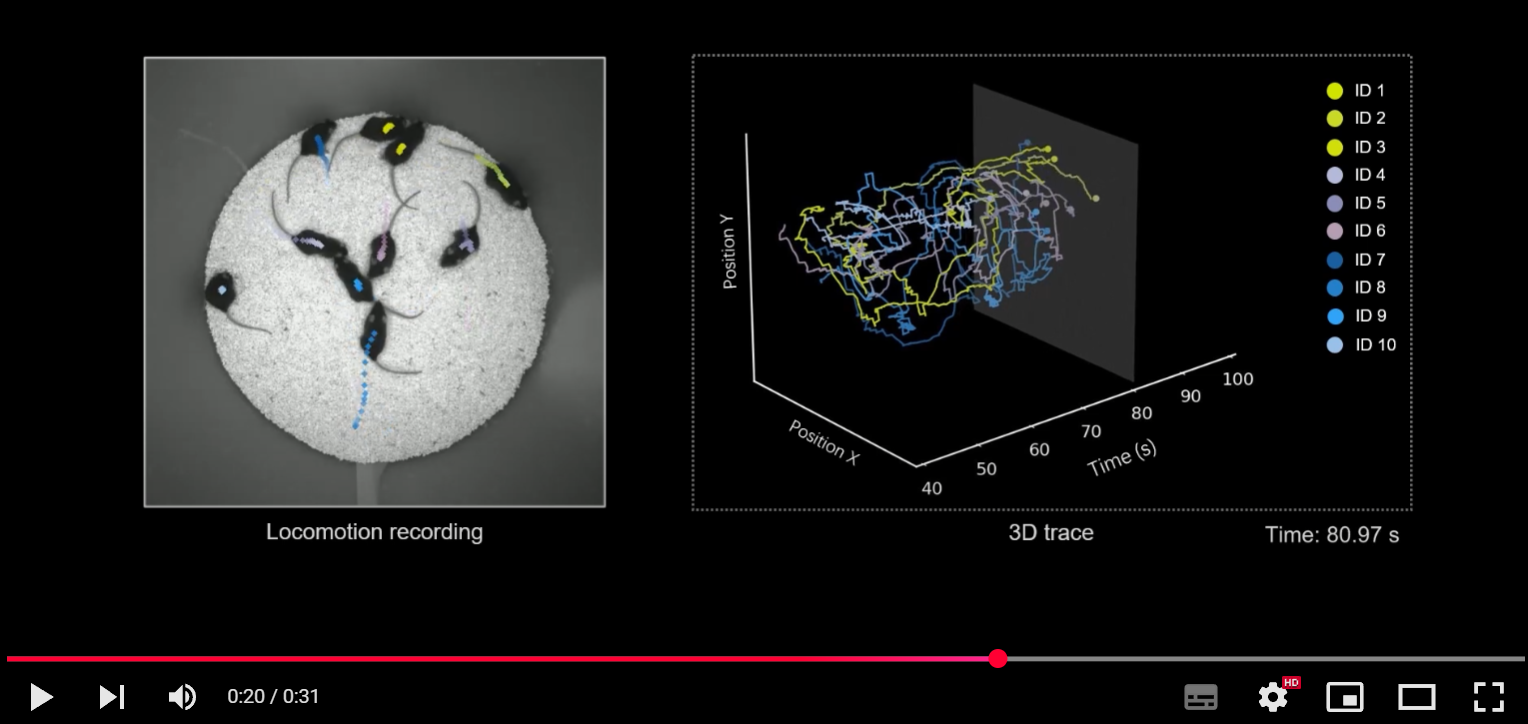
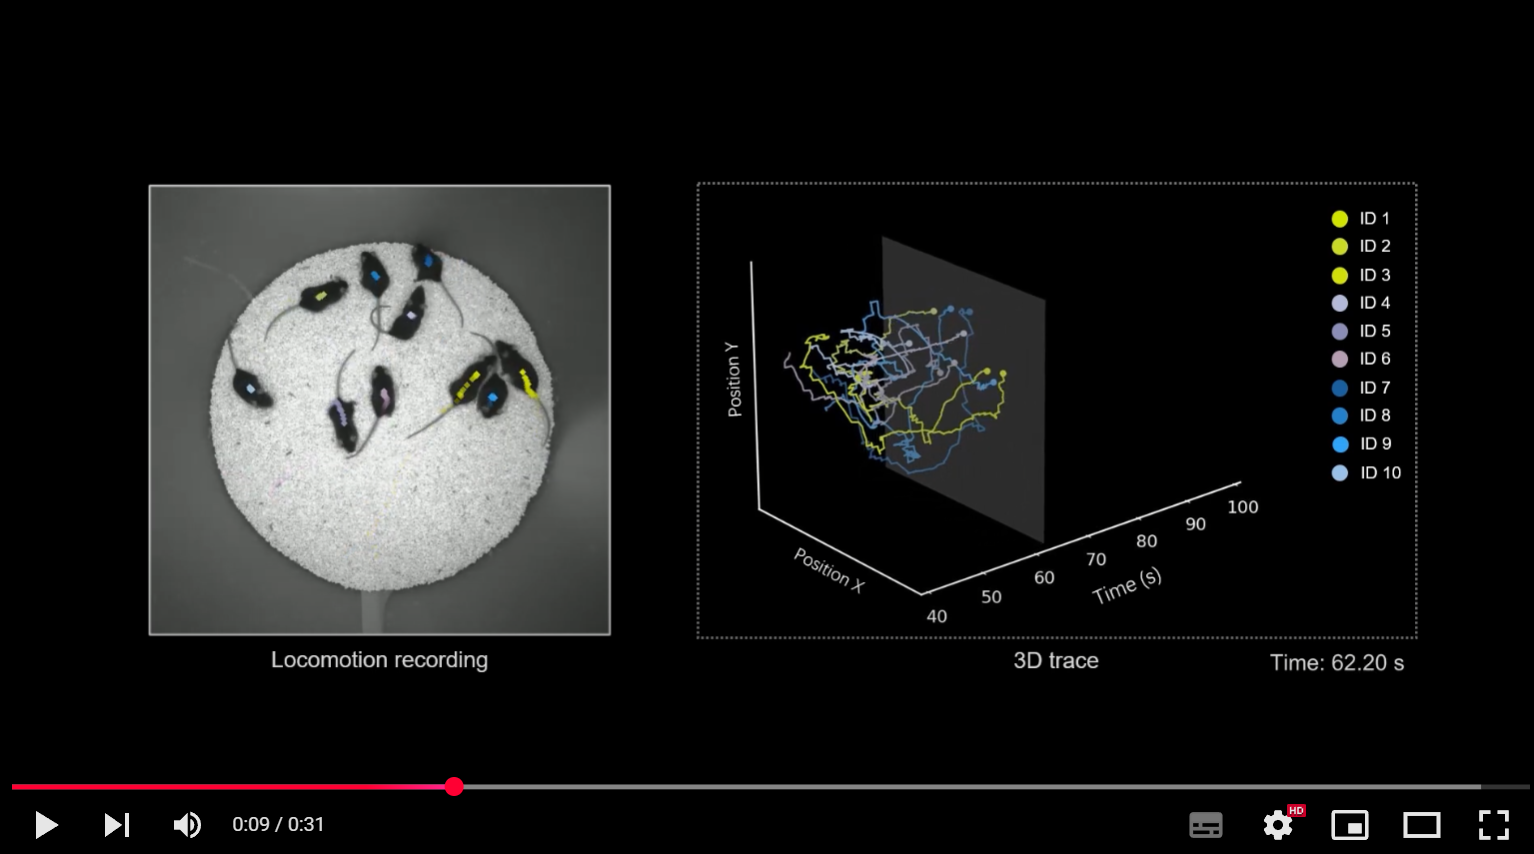
Add files via upload

diff --git a/README.md b/README.md
@@ -16,13 +16,12 @@
 
 ## Overview
 
-**Among the challenges of fluorescence microscopy, poor imaging signal-to-noise ratio (SNR) caused by limited photon budget lingeringly stands in the central position.** Fluorescence microscopy is inherently sensitive to detection noise because the photon flux in fluorescence imaging is far lower than that in photography. For almost all fluorescence imaging technologies, the inherent [**shot-noise limit**](https://cabooster.github.io/DeepCAD-RT/About/) determines the upper bound of imaging SNR and restricts the imaging resolution, speed, and sensitivity. To capture enough fluorescence photons for satisfactory SNR, researchers have to sacrifice imaging resolution, speed, and even sample health.  
+Animal behavior is closely related to their internal state and external environment. Quantifying animal behavior is a fundamental step in ecology, neuroscience, psychology, and various other fields. However, there exist enduring challenges impeding multi-animal tracking advancing towards higher accuracy, larger scale, and more complex scenarios, especially the similar appearance and frequent interactions of animals of the same species.
 
-We present a versatile method **DeepCAD-RT** to denoise fluorescence time-lapse images with rapid processing speed that can be incorporated with the microscope acquisition system to achieve real-time denoising. Our method is based on deep self-supervised learning and the original low-SNR data can be directly used for training convolutional networks, making it particularly advantageous in functional imaging where the sample is undergoing fast dynamics and capturing ground-truth data is hard or impossible. We have demonstrated extensive experiments including calcium imaging in mice, zebrafish, and flies, cell migration observations, and the imaging of a new genetically encoded ATP sensor, covering both 2D single-plane imaging and 3D volumetric imaging. **Qualitative and quantitative evaluations show that our method can substantially enhance fluorescence time-lapse imaging data and permit high-sensitivity imaging of biological dynamics beyond the shot-noise limit.**
-
+Growing demands in quantitative ethology has motivated concerted efforts to develop high-accuracy and generalized tracking methods. Here, we present an **unsupervised deep-learning method for multi-animal tracking (UDMT)** that outperforms existing tracking methods. **UDMT does not require any human annotations for training.** The only thing users need to do is to click the animals in the first frame to specify the individuals they want to track. UDMT is grounded in a bidirectional closed-loop tracking strategy that visual tracking can be conducted equivalently in both forward and backward directions.  To better capture the spatiotemporal evolution of animal features more effectively, we incorporated a spatiotemporal transformer network (ST-Net) to utilize self-attention and cross-attention mechanisms for feature extraction, leading to a threefold reduction in IDSW compared with convolutional neural networks (CNNs). For identity correction, we designed a sophisticated module based on bidirectional tracking to relocate missing targets caused by crowding and occlusion, achieving a 2.7-fold improvement in tracking accuracy. We demonstrate the state-of-the-art performance of UDMT on five different kinds of model animals, including mice, rats, *Drosophila*, *C. elegans*, and *Betta splendens*. Combined with a head-mounted miniaturized microscope, we recorded the calcium transients synchronized with mouse locomotion to decipher the correlations between animal locomotion and neural activity. 
 
 For more details, please see the companion paper where the method first appeared: 
-["*Real-time denoising enables high-sensitivity fluorescence time-lapse imaging beyond the shot-noise limit, Nature Biotechnology (2022)*"](https://www.nature.com/articles/s41587-022-01450-8).
+["*Unsupervised multi-animal tracking for quantitative ethology*"](https://www.nature.com/articles/s41587-022-01450-8).
 
 <img src="images/schematic.png" width="800" align="middle">
 
@@ -32,38 +31,9 @@ For more details, please see the companion paper where the method first appeared
   <summary>Click to unfold the directory tree</summary>
 
 ```
-DeepCAD-RT
-|---DeepCAD_RT_pytorch #Pytorch implementation of DeepCAD-RT#
-|---|---demo_train_pipeline.py
-|---|---demo_test_pipeline.py
-|---|---convert_pth_to_onnx.py
-|---|---deepcad
-|---|---|---__init__.py
-|---|---|---utils.py
-|---|---|---network.py
-|---|---|---model_3DUnet.py
-|---|---|---data_process.py
-|---|---|---buildingblocks.py
-|---|---|---test_collection.py
-|---|---|---train_collection.py
-|---|---|---movie_display.py
-|---|---notebooks
-|---|---|---demo_train_pipeline.ipynb
-|---|---|---demo_test_pipeline.ipynb
-|---|---|---DeepCAD_RT_demo_colab.ipynb
-|---|---datasets
-|---|---|---DataForPytorch # project_name #
-|---|---|---|---data.tif
-|---|---pth
-|---|---|---ModelForPytorch
-|---|---|---|---model.pth
-|---|---|---|---model.yaml
-|---|---onnx
-|---|---|---ModelForPytorch
-|---|---|---|---model.onnx
-|---|---results
-|---|---|--- # test results#
-|---DeepCAD_RT_GUI #Matlab GUI of DeepCAD-RT#
+UDMT
+|---UDMT_pytorch #Pytorch implementation of DeepCAD-RT#
+|---UDMT_GUI #Python GUI of DeepCAD-RT#
 ```
 - **DeepCAD_RT_pytorch** contains the Pytorch implementation of DeepCAD-RT (Python scripts, Jupyter notebooks, Colab notebook)
 - **DeepCAD_RT_GUI** contains all C++ and Matlab files for the real-time implementation of DeepCAD-RT
@@ -160,17 +130,17 @@ To achieve real-time denoising, DeepCAD-RT was optimally deployed on GPU using T
 
 ## Results
 
-### 1. DeepCAD-RT massively improves the imaging SNR of neuronal population recordings in the zebrafish brain.
+### 1. Tracking the movement of 10 mice simultaneously with UDMT.
 
 [![IMAGE ALT TEXT](images/sv1_video.png)](https://youtu.be/yFT3AdmNVg8 "Video Title")
 
-### 2. Denoising performance of DeepCAD-RT of neutrophils in the mouse brain in vivo.
+### 2. Neuroethology analysis of multiple mice combined with a head-mounted microscope.
 
-[![IMAGE ALT TEXT](images/sv5_video.png)]( https://www.youtube.com/embed/eyLPVRcEGHs "Video Title")
+[![IMAGE ALT TEXT](images/sv5_video.png)]( https://youtu.be/zufYK1ovlLU "Video Title")
 
-### 3. DeepCAD-RT reveals the ATP (Adenosine 5’-triphosphate) dynamics of astrocytes in 3D after laser-induced brain injury.
+### 3. Analyzing the aggressive behavior of betta fish with UDMT.
 
-[![IMAGE ALT TEXT](images/sv10_video.png)](https://www.youtube.com/embed/u1ejSaVvWiY "Video Title")
+[![IMAGE ALT TEXT](images/sv8_video.png)](https://youtu.be/z724dDa0CRM "Video Title")
 
 More demo videos are presented on [our website](https://cabooster.github.io/DeepCAD-RT/Gallery/).
 
